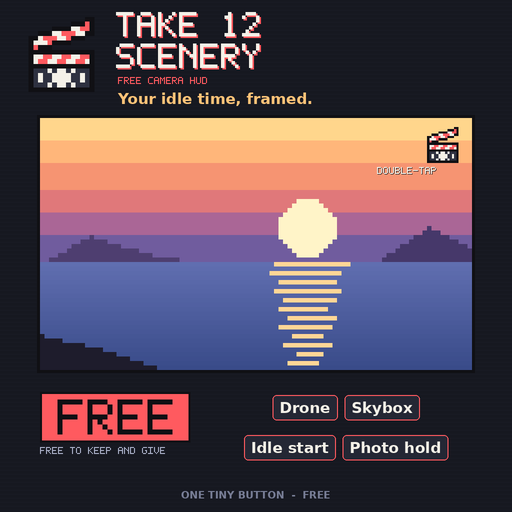
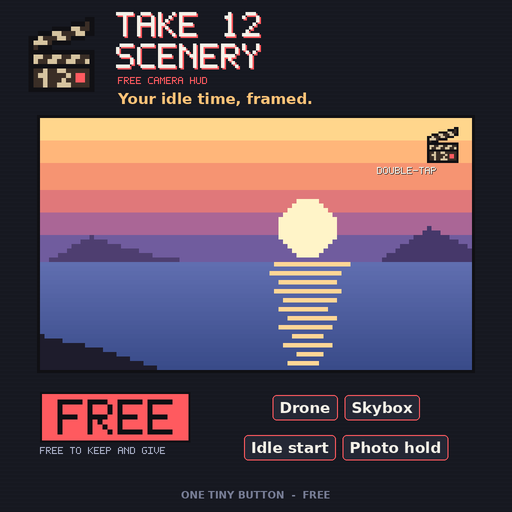
Take 12 Scenery's button: the same clapper and 12 in sepia, with the red light
A sun on the 4 px slate never read well. The free button is now the Take 12
clapper and its 12 in sepia, like an old film, with only the red recording
light in colour. Regenerated scenery/art and the free boards; docs updated.

Claude-Session: https://claude.ai/code/session_017fxCDsK7kSKGLKYB8MXKf1

Changed region(s): [[0.0625, 0.0312, 0.1875, 0.1875], [0.8125, 0.25, 0.9062, 0.3125]]

diff --git a/tools/art/make_icon.py b/tools/art/make_icon.py
@@ -7,7 +7,7 @@
 Writes hud/art/take12_icon_sheet_512x256.png (upload this one: ALL looks, switchable from the
 menu), hud/art/variants/<look>_256x128.png (single-look, two frames), hud/art/preview.png, and the free
 Take 12 Watch HUD's icon, watch/art/take12_watch_icon_128.png (the clapper with an eye instead of "12"), and
-Take 12 Scenery's sheet and icon in scenery/art/ (the clapper with a chalk sun instead of "12", one look).
+Take 12 Scenery's sheet and icon in scenery/art/ (the same clapper and "12" in sepia, with the red light, one look).
 Pixels are scaled x8 with nearest-neighbour; the background is transparent.
 Edit the palette or the drawing below, re-run, re-upload.
 
@@ -27,6 +27,8 @@ PAL = {
     "H": (138, 144, 166, 255),   # chalk lines
     "C": (255, 90, 95, 255),     # coral accent
     "B": (110, 214, 246, 255),   # cyan (viewfinder variant)
+    "S": (214, 196, 160, 255),   # sepia cream (Take 12 Scenery)
+    "U": (58, 46, 38, 255),      # sepia slate (Take 12 Scenery)
 }
 
 def blank():
@@ -137,18 +139,17 @@ def watch_icon():
     s.paste(frame_img(draw_watch()), (PAD, PAD))
     return s
 
+SEPIA = {"W": "S", "D": "U"}    # Take 12 Scenery: chalk -> cream, slate -> dark sepia
+
 def draw_scenery(open_):
-    """Take 12 Scenery (the free scenery camera): the same clapper, rec look, with a small chalk sun (a round disc,
-    eight short rays) in place of the "12": the same quiet chalk, so Take 12 stays the colourful one. Open and
-    clapped, so the little clap still works."""
-    g = draw(open_, DEFAULT)
-    for y in range(11, 15):
-        for x in range(2, 14):
-            g[y][x] = "D"
-    S = ["...W.WW.W...", ".W..WWWW..W.", ".W..WWWW..W.", "...W.WW.W..."]
-    for r, row in enumerate(S):
-        for c, ch in enumerate(row):
-            if ch != ".": g[11 + r][2 + c] = ch
+    """Take 12 Scenery (the free scenery camera): the same clapper and "12", in sepia, like an old film, with only
+    the red recording light left in colour. The full Take 12 stays the colour picture. Open and clapped, so the
+    little clap still works."""
+    g = draw(open_, "classic")
+    g[13][11] = g[13][12] = "D"                  # no Classic grey line: the red light instead
+    g = [[SEPIA.get(ch, ch) for ch in row] for row in g]
+    for (x, y) in [(11, 12), (12, 12), (11, 13), (12, 13)]:
+        g[y][x] = "C"
     return g
 
 def scenery_icon():

diff --git a/CHANGELOG.md b/CHANGELOG.md
@@ -1,8 +1,8 @@
 # Changelog
 
-## Take 12 Scenery's button: a plain chalk sun
-- The coral half-sun on a horizon read as a red dome on the 4-pixel-tall slate. It is now a small chalk sun, a round disc with eight short rays, centred where the "12" sits: the same quiet chalk, so the main Take 12 stays the colourful one.
-- New `scenery/art` texture and icon, and the free boards redrawn; the Read Me, the listing and the build steps say "a chalk sun". Take 12's and the Watch's art and boards are unchanged.
+## Take 12 Scenery's button: the same clapper in sepia
+- A sun on the 4-pixel-tall slate never read well (a red dome, then a pattern). The free button is now the Take 12 clapper and its "12" in sepia, like an old film, with only the red recording light left in colour: the same logo and feel, a step below the full Take 12, which stays the colour picture. None of Take 12's three looks is sepia, so the two are never confused.
+- New `scenery/art` texture and icon, and the free boards redrawn with it; the Read Me, the listing and the build steps describe it. Take 12's and the Watch's art and boards are unchanged.
 
 ## Take 12 Scenery: its own button (no change to Take 12's scripts)
 - **The design:** the Take 12 clapper (Rec look, the same chalk and coral) with a coral sun setting on a chalk horizon, and a faint reflection, in place of the "12". It is the same family as the Watch and its eye: recognisable as Take 12, never mistaken for it. Open and clapped frames, so the little clap still works.

diff --git a/scenery/README.md b/scenery/README.md
@@ -4,7 +4,7 @@ The scenery camera of Take 12, on its own, for L$0: a free way in to the full Ta
 
 - **What it has:** the scenery camera (drone views, wide horizons, skybox rooms from the inside), idle start, tap / double-tap, Photo hold (hold the button while it rolls), Next, Stop, Pace, Indoors, Reach, Alt-cam, the menu styles, the status line with your lens, tips and the little clap.
 - **What it leaves to the full Take 12:** Me, Us, Still, sharing, favourite spots, the seated view and the three button looks.
-- **Its own button:** the Take 12 clapper (Rec look) with a small chalk sun in place of the "12", like the Watch's eye. One design; Options > Look has no Button choice.
+- **Its own button:** the Take 12 clapper and "12" in sepia, like an old film, with only the red recording light in colour. The full Take 12 is the colour picture; Scenery is the same camera in sepia. One design; Options > Look has no Button choice.
 - **The one pointer:** a "More cameras" button on the main menu opens the full Take 12's Marketplace listing. Nothing else asks you to buy.
 - **Hold:** with no sharing, holding the button opens the menu (the live menu while it rolls: Photo, Next, Stop).
 

diff --git a/scenery/marketing/marketplace_listing_scenery.md b/scenery/marketing/marketplace_listing_scenery.md
@@ -48,7 +48,7 @@ ALSO
 - Pace: 30 s to 2 min per view.
 - A quiet line above the button says when the camera runs, with your lens; nothing there means it is your own camera.
 - Short tips while you are new to it; they turn themselves off.
-- One small pixel-art clapper with a chalk sun on its slate, and a tiny clap now and then while the camera runs.
+- One small pixel-art clapper in sepia, with a red recording light and a tiny clap now and then while the camera runs.
 
 WANT MORE CAMERAS?
 Take 12 Scenery is the scenery camera of Take 12. The full Take 12 adds Me (shots of you, following you), Us (you and the people around you, or only the friends you pick, in one frame), Still (a held picture of you, with the classic portrait lens), your lens in every camera, and Share the view: go live, and your friends watch your camera. Tap the button > More cameras.
